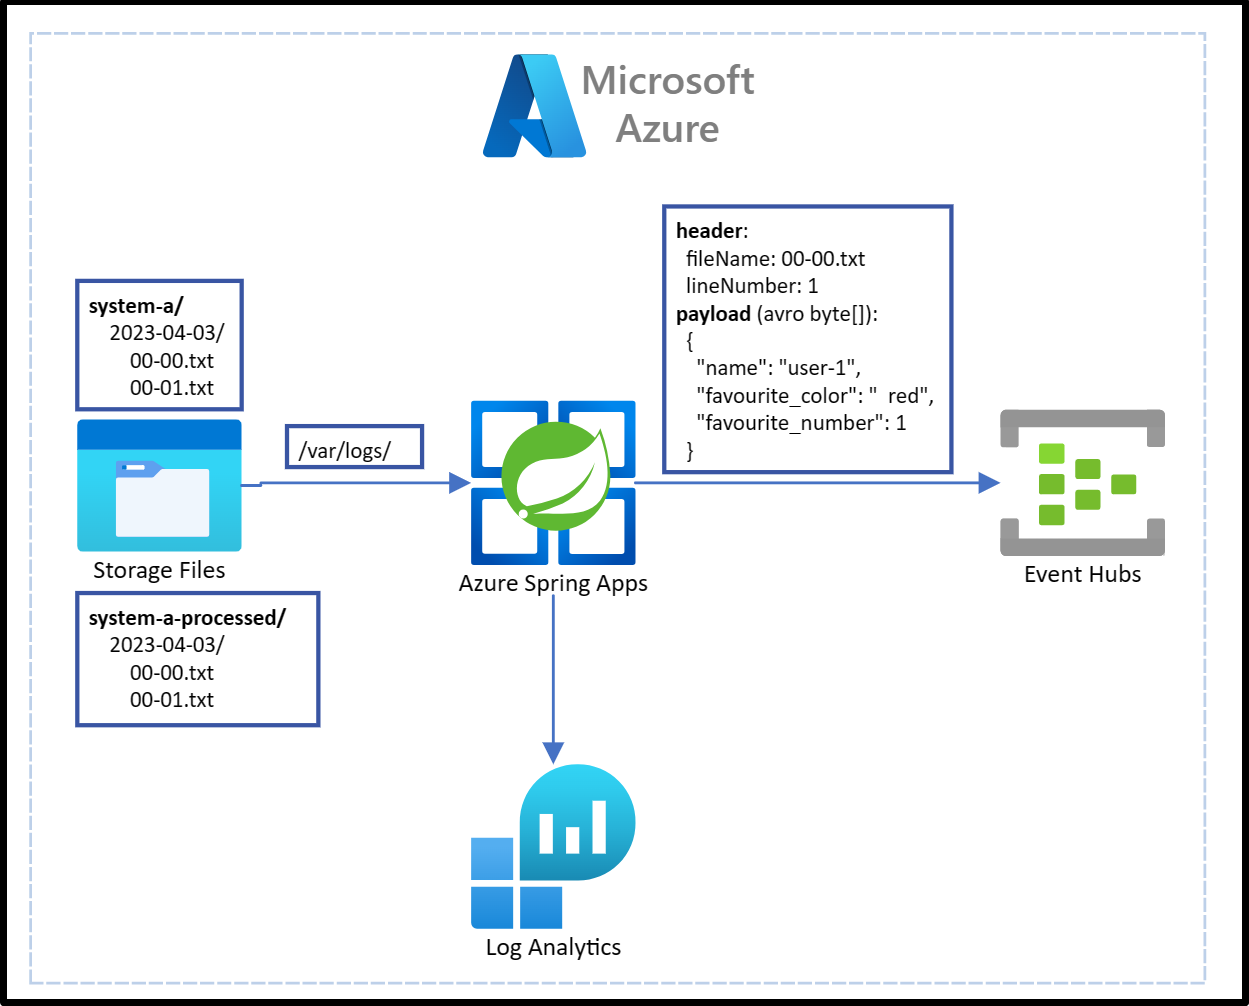
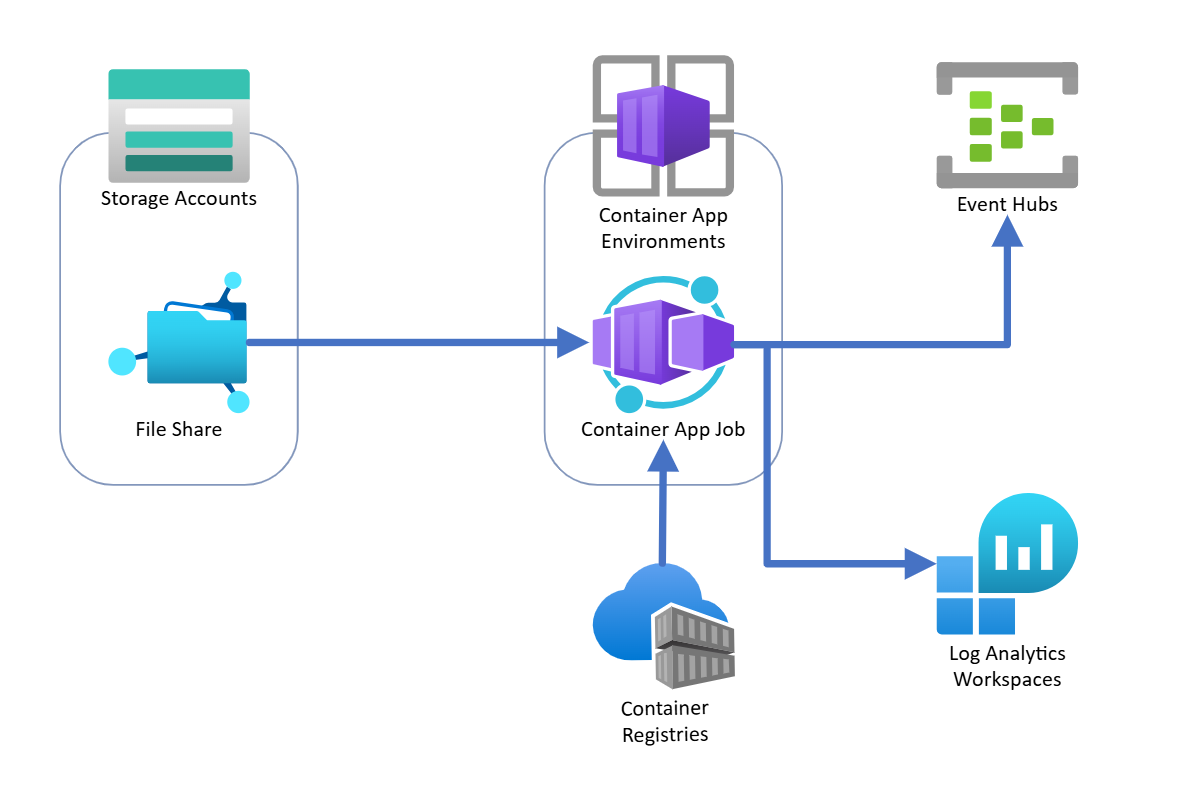
Update README.md.

Changed region(s): [[0.0, 0.0, 1.0, 1.0]]

diff --git a/README.md b/README.md
@@ -1,203 +1,58 @@
-# Azure Spring Apps File Processing Sample
+# DevOps Experience of Azure Container App Job
 
-## 1. Scenario
+## 1. Purpose
 
-### 1.1. Log Files Explanation
+This sample's purpose is demonstrating the devops experience of Azure Container App Job.
 
-1. A system generates log files in folders named by date: `/var/log/system-a/${yyyy-MM-dd}`. 
-2. The log files are txt files named by hour and minute: `${hh-mm}.txt`.
-3. Each line of the log files will have format like this: `${name,favorite_color,favorite_number}`.
+## 2. System diagram
 
-   Here is a picture about folder structure and log file:
+> ![system-diagram](./pictures/system-diagram.png)
 
-   ![log-file-and-folder](./pictures/log-file-and-folder.png)
+In this diagram:
+1. The application run in Azure Container App Job.
+2. The application's main task is to handle files.
+3. The files needed to be handle is stored in Azure File Share.
+4. After files been handled, they fill be moved into another folder.
+5. For each line of text file, it will be converted and send to Azure Event Hub.
 
-### 1.2. File Processing Requirements
+## 3. How to run this application
 
-#### 1.2.1. Functional Requirements
-1. Before app starts, the number of files to be processed is unknown.
-   - All files in specific folder should be processed.
-   - All files in sub folder should be processed, too.
-2. Each line should be converted into an [avro](https://avro.apache.org/docs/1.11.1/) object. Here is the format of avro:
-   ```json
-   {
-     "namespace": "com.azure.spring.example.file.processing.avro.generated",
-     "type": "record",
-     "name": "User",
-     "fields": [
-       {
-         "name": "name",
-         "type": "string"
-       },
-       {
-         "name": "favorite_number",
-         "type": [
-           "int",
-           "null"
-         ]
-       },
-       {
-         "name": "favorite_color",
-         "type": [
-           "string",
-           "null"
-         ]
-       }
-     ]
-   }
-   ```
-3. Send the avro object to [Azure Event Hubs](https://learn.microsoft.com/en-us/azure/event-hubs/event-hubs-about).
-4. After file processed, move the file to another folder to avoid duplicate processing. Here is an example of move target folder: `/var/log/system-a-processed/${yyyy-MM-dd}`
+### 3.1. Prepare necessary Azure resources.
 
-   Here is a picture about moving log files after processed:
+Use this script to create all necessary Azure resources:
 
-   ![move-file-after-processed](./pictures/move-file-after-processed.png)
+```shell
+./scripts/create_azure_resources.sh
+```
 
-#### 1.2.2. Non-Functional Requirements
+### 3.2. Run this application in localhost
 
-1. The system must be robust. 
-   - 1.1. Handle invalid file. Current application only handle txt files. For other file types like csv, it will be filtered out.
+1. Use this script to prepare test files:
+    ```shell
+    ./scripts/restore_test_files.sh
+    ```
+2. Update `application.yml` by this script:
+    ```shell
+    ./scripts/update_application_yml_for_local_development.sh
+    ```
+3. Run this application by IDE. This is just a simple Spring Boot application. You should know how to run it in you IDE.
 
-     ![filter-by-file-type](./pictures/filter-by-file-type.png)
+### 3.3. Run this application in Azure Container App Jobs
 
-    - 1.2. Handle invalid line. When there is a invalid data line in a file, output a warning log then continue processing.
+1. Build docker image and upload to Azure Container Registry:
+    ```shell
+    ./scripts/build_docker_image.sh
+    ```
+2. Just click `Run now` to trigger job execution.
 
-     ![invalid-lines](./pictures/invalid-lines.png)
+> ![run-now](./pictures/run-now.png)
 
-2. Easy to track.
-   - 2.1. When there is invalid line, the log should contain these information:
-      - Which file?
-      - Which line?
-      - Why this line is invalid?
-      - What is the string value of this line?
-   - 2.2. Track each step of a specific file.
-      - Does this file be added in to processing candidate?
-      - If the file is filtered out, why it's filtered out?
-      - How many line does this file have?
-      - Does each line of this file been converted to avro object and send to Azure Event Hubs successfully?
+## 4. More information
 
+For more information, please refer to related document:
 
-### 1.3. System Diagram
-
-   ![system-diagram](./pictures/system-diagram.png)
-
-1. **Azure Spring Apps**: Current application will run on Azure Spring Apps.
-2. **Azure Storage Files**: Log files stored in Azure Storage files.
-3. **Azure Event Hubs**: In log files, each valid line will be converted into avro format then send to Azure Event Hubs. 
-4. **Log Analytics**: When current application run in Azure Spring Apps, the logs can be viewed by Log Analytics.
-
-### 1.4. The Application
-The scenario is a classic [Enterprise Integration Pattern](https://www.enterpriseintegrationpatterns.com/index.html), so we use the [Spring Boot](https://spring.io/projects/spring-boot) + [Spring Integration](https://spring.io/projects/spring-integration) in this application.
-
-## 2. Run Current Sample on Azure Spring Apps Consumption Plan
-
-### 2.1. Provision Required Azure Resources
-
-1. Provision an Azure Spring Apps instance. Refs: [Quickstart: Provision an Azure Spring Apps service instance](https://learn.microsoft.com/en-us/azure/spring-apps/quickstart-provision-service-instance?tabs=Azure-portal&pivots=programming-language-java).
-2. Create An app in created Azure Spring Apps.
-3. Create an Azure Event Hub. Refs: [Create an event hub using Azure portal](https://learn.microsoft.com/en-us/azure/event-hubs/event-hubs-create).
-4. Create Azure Storage Account. Refs: [Create a storage account](https://learn.microsoft.com/en-us/azure/storage/common/storage-account-create?tabs=azure-portal).
-5. Create a File Share in created Storage account.
-6. Mount Azure Storage into Azure Spring Apps to `/var/log/`. Refs: [How to enable your own persistent storage in Azure Spring Apps](https://learn.microsoft.com/en-us/azure/spring-apps/how-to-custom-persistent-storage?tabs=Azure-portal).
-
-### 2.2. Deploy Current Sample
-
-1. Set these environment variables for the app.
-   ```properties
-   logs-directory=/var/log/system-a
-   processed-logs-directory=/var/log/system-a-processed
-   spring.cloud.azure.eventhubs.connection-string=
-   spring.cloud.azure.eventhubs.event-hub-name=
-   ```
-
-2. Upload some sample log files into Azure Storage Files. You can use files in [./test-files/var/log/system-a](./test-files/var/log/system-a).
-
-3. Build package.
-   ```shell
-   ./mvnw clean package
-   ```
-
-4. Set necessary environment variables according to the created resources.
-   ```shell
-   RESOURCE_GROUP=
-   AZURE_SPRING_APPS_INSTANCE=
-   APP_NAME=
-   ```
-
-5. Deploy app
-   ```shell
-   az spring app deploy \
-     --resource-group $RESOURCE_GROUP \
-     --service $AZURE_SPRING_APPS_INSTANCE \
-     --name $APP_NAME \
-     --artifact-path target/azure-spring-apps-file-processing-sample-0.0.1-SNAPSHOT.jar
-   ```
-
-   After deployed successfully, you can see logs like this: 
-   ![check-logs-after-deployed](./pictures/check-logs-after-deployed.png)
-
-### 2.3. Check Details About File Processing
-
-1. Check logs by [Azure Toolkit for IntelliJ](https://github.com/microsoft/azure-tools-for-java/blob/develop/PluginsAndFeatures/azure-toolkit-for-intellij/azure-intellij-plugin-lib/src/main/resources/whatsnew.md#added-2).
-
-   Screenshot:
-   ![check-logs-by-azure-toolkit-for-intellij](./pictures/check-logs-by-azure-toolkit-for-intellij.png)
-
-2. Get log of specific error.
-
-   Input `Convert txt string to User failed` in search box:
-   ![/pictures/check-logs-by-azure-toolkit-for-intellij-for-specific-error](./pictures/check-logs-by-azure-toolkit-for-intellij-for-specific-error.png)
-   Error details can be found in the log:
-   ![/pictures/check-logs-by-azure-toolkit-for-intellij-for-specific-error-1](./pictures/check-logs-by-azure-toolkit-for-intellij-for-specific-error-1.png)
-
-3. Get all logs about a specific file.
-
-   Input `/var/log/system-a/00-00.txt` in search box:
-   ![get-all-logs-about-a-specific-file-1](./pictures/get-all-logs-about-a-specific-file-1.png)
-
-   Input `/var/log/system-a/00-03.csv` in search box:
-   ![get-all-logs-about-a-specific-file-2](./pictures/get-all-logs-about-a-specific-file-2.png)
-
-4. Check events in Azure Event Hubs.
-
-   Check events by Azure Toolkit for IntelliJ:
-   ![listen-to-event-hub-by-azure-toolkit-for-intellij](./pictures/listen-to-event-hub-by-azure-toolkit-for-intellij.png)
-   
-   Another way to check events is using [ServiceBusExplorer](https://github.com/paolosalvatori/ServiceBusExplorer). It can give more information about message properties:
-   ![service-bus-explorer](./pictures/service-bus-explorer.png)
-
-## 3. Next Steps
-
-### 3.1. Store Secrets in Azure Key Vault Secrets
-
-Secret can be stored in [Azure Key Vault secrets](https://learn.microsoft.com/en-us/azure/key-vault/secrets/about-secrets) and used in this application. [spring-cloud-azure-starter-keyvault](https://learn.microsoft.com/en-us/azure/developer/java/spring-framework/configure-spring-boot-starter-java-app-with-azure-key-vault) is a useful library to get secrets from Azure KeyVault in Spring Boot applications. And `spring-cloud-azure-starter-keyvault` supports refresh the secrets in a fixed interval.
-
-The following are some examples of using secrets in current application:
-1. Azure Event Hubs connection string.
-2. Passwords to access file. All passwords can be stored in a key-value map. Here is example of such map:
-   ```json
-   [
-     {"00-00.txt": "password-0"},
-     {"00-01.txt": "password-1"},
-     {"00-02.txt": "password-2"}
-   ]
-   ```
-
-### 3.2. Auto Scaling
-
-### 3.2.1. Scale 0 - 1
-
-1. **Design**
-   1. Scale to 0 instance when:
-      - There is no file need to be handled for more than 1 hour. 
-   2. Scale to 1 instance when one of these requirements satisfied:
-      - File exists for more than 1 hour.
-      - File count > 100.
-      - File total size > 1 GB.
-2. **Implement**: Use **Azure Blob Storage** instead of **Azure File Share**. So related [KEDA Scaler](https://keda.sh/docs/2.9/scalers/azure-storage-blob/) can be used.
-
-### 3.2.2. Scale 1 - n
-
-1. **Design**: Scale instance number according to file count and total file size.
-2. **Implement**: To avoid competition between instances, use some proven technology like [Master/slave module](https://en.wikipedia.org/wiki/Master/slave_(technology)).
-
+1. [Azure Container App Job](https://learn.microsoft.com/en-us/azure/container-apps/jobs?tabs=azure-cli).
+2. [Azure Container App Job Get Started](https://learn.microsoft.com/en-us/azure/container-apps/jobs-get-started-portal).
+3. [Azure File Share](https://learn.microsoft.com/en-us/azure/storage/files/storage-files-introduction).
+4. [Azure Event Hub](https://learn.microsoft.com/en-us/azure/event-hubs/event-hubs-about).
+5. [Azure Container Registry](https://learn.microsoft.com/en-us/azure/container-registry/).
